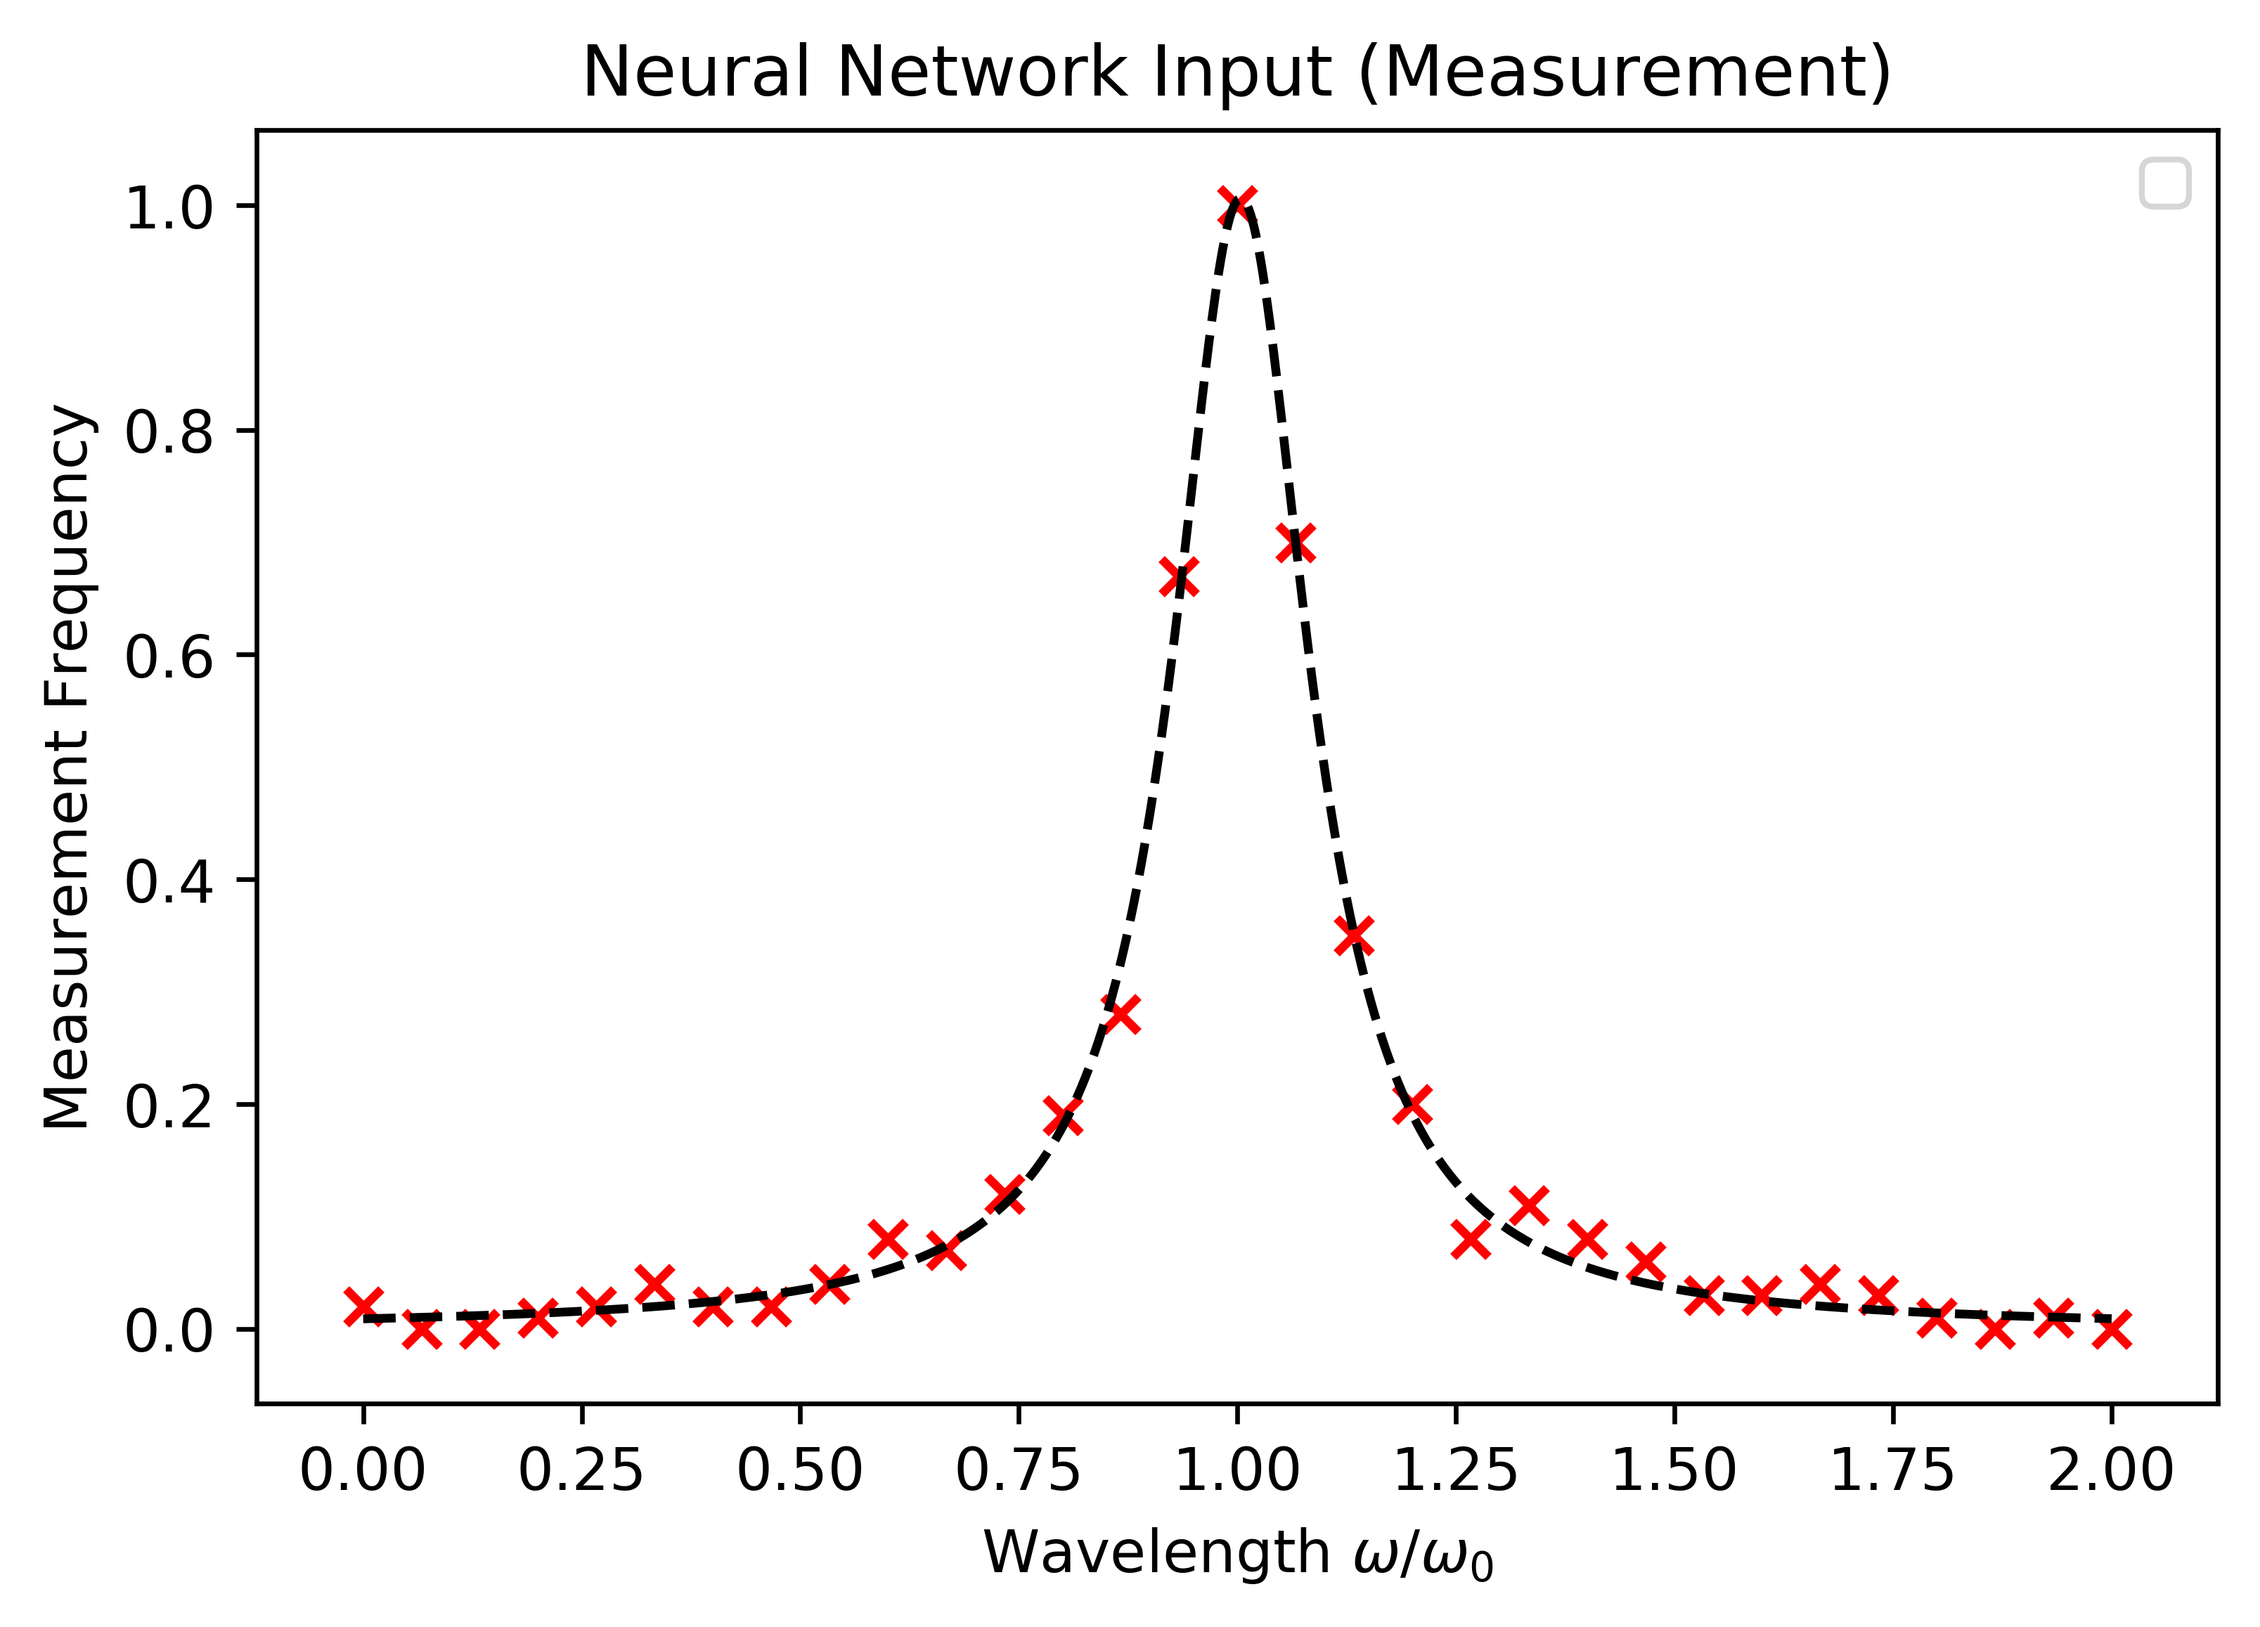
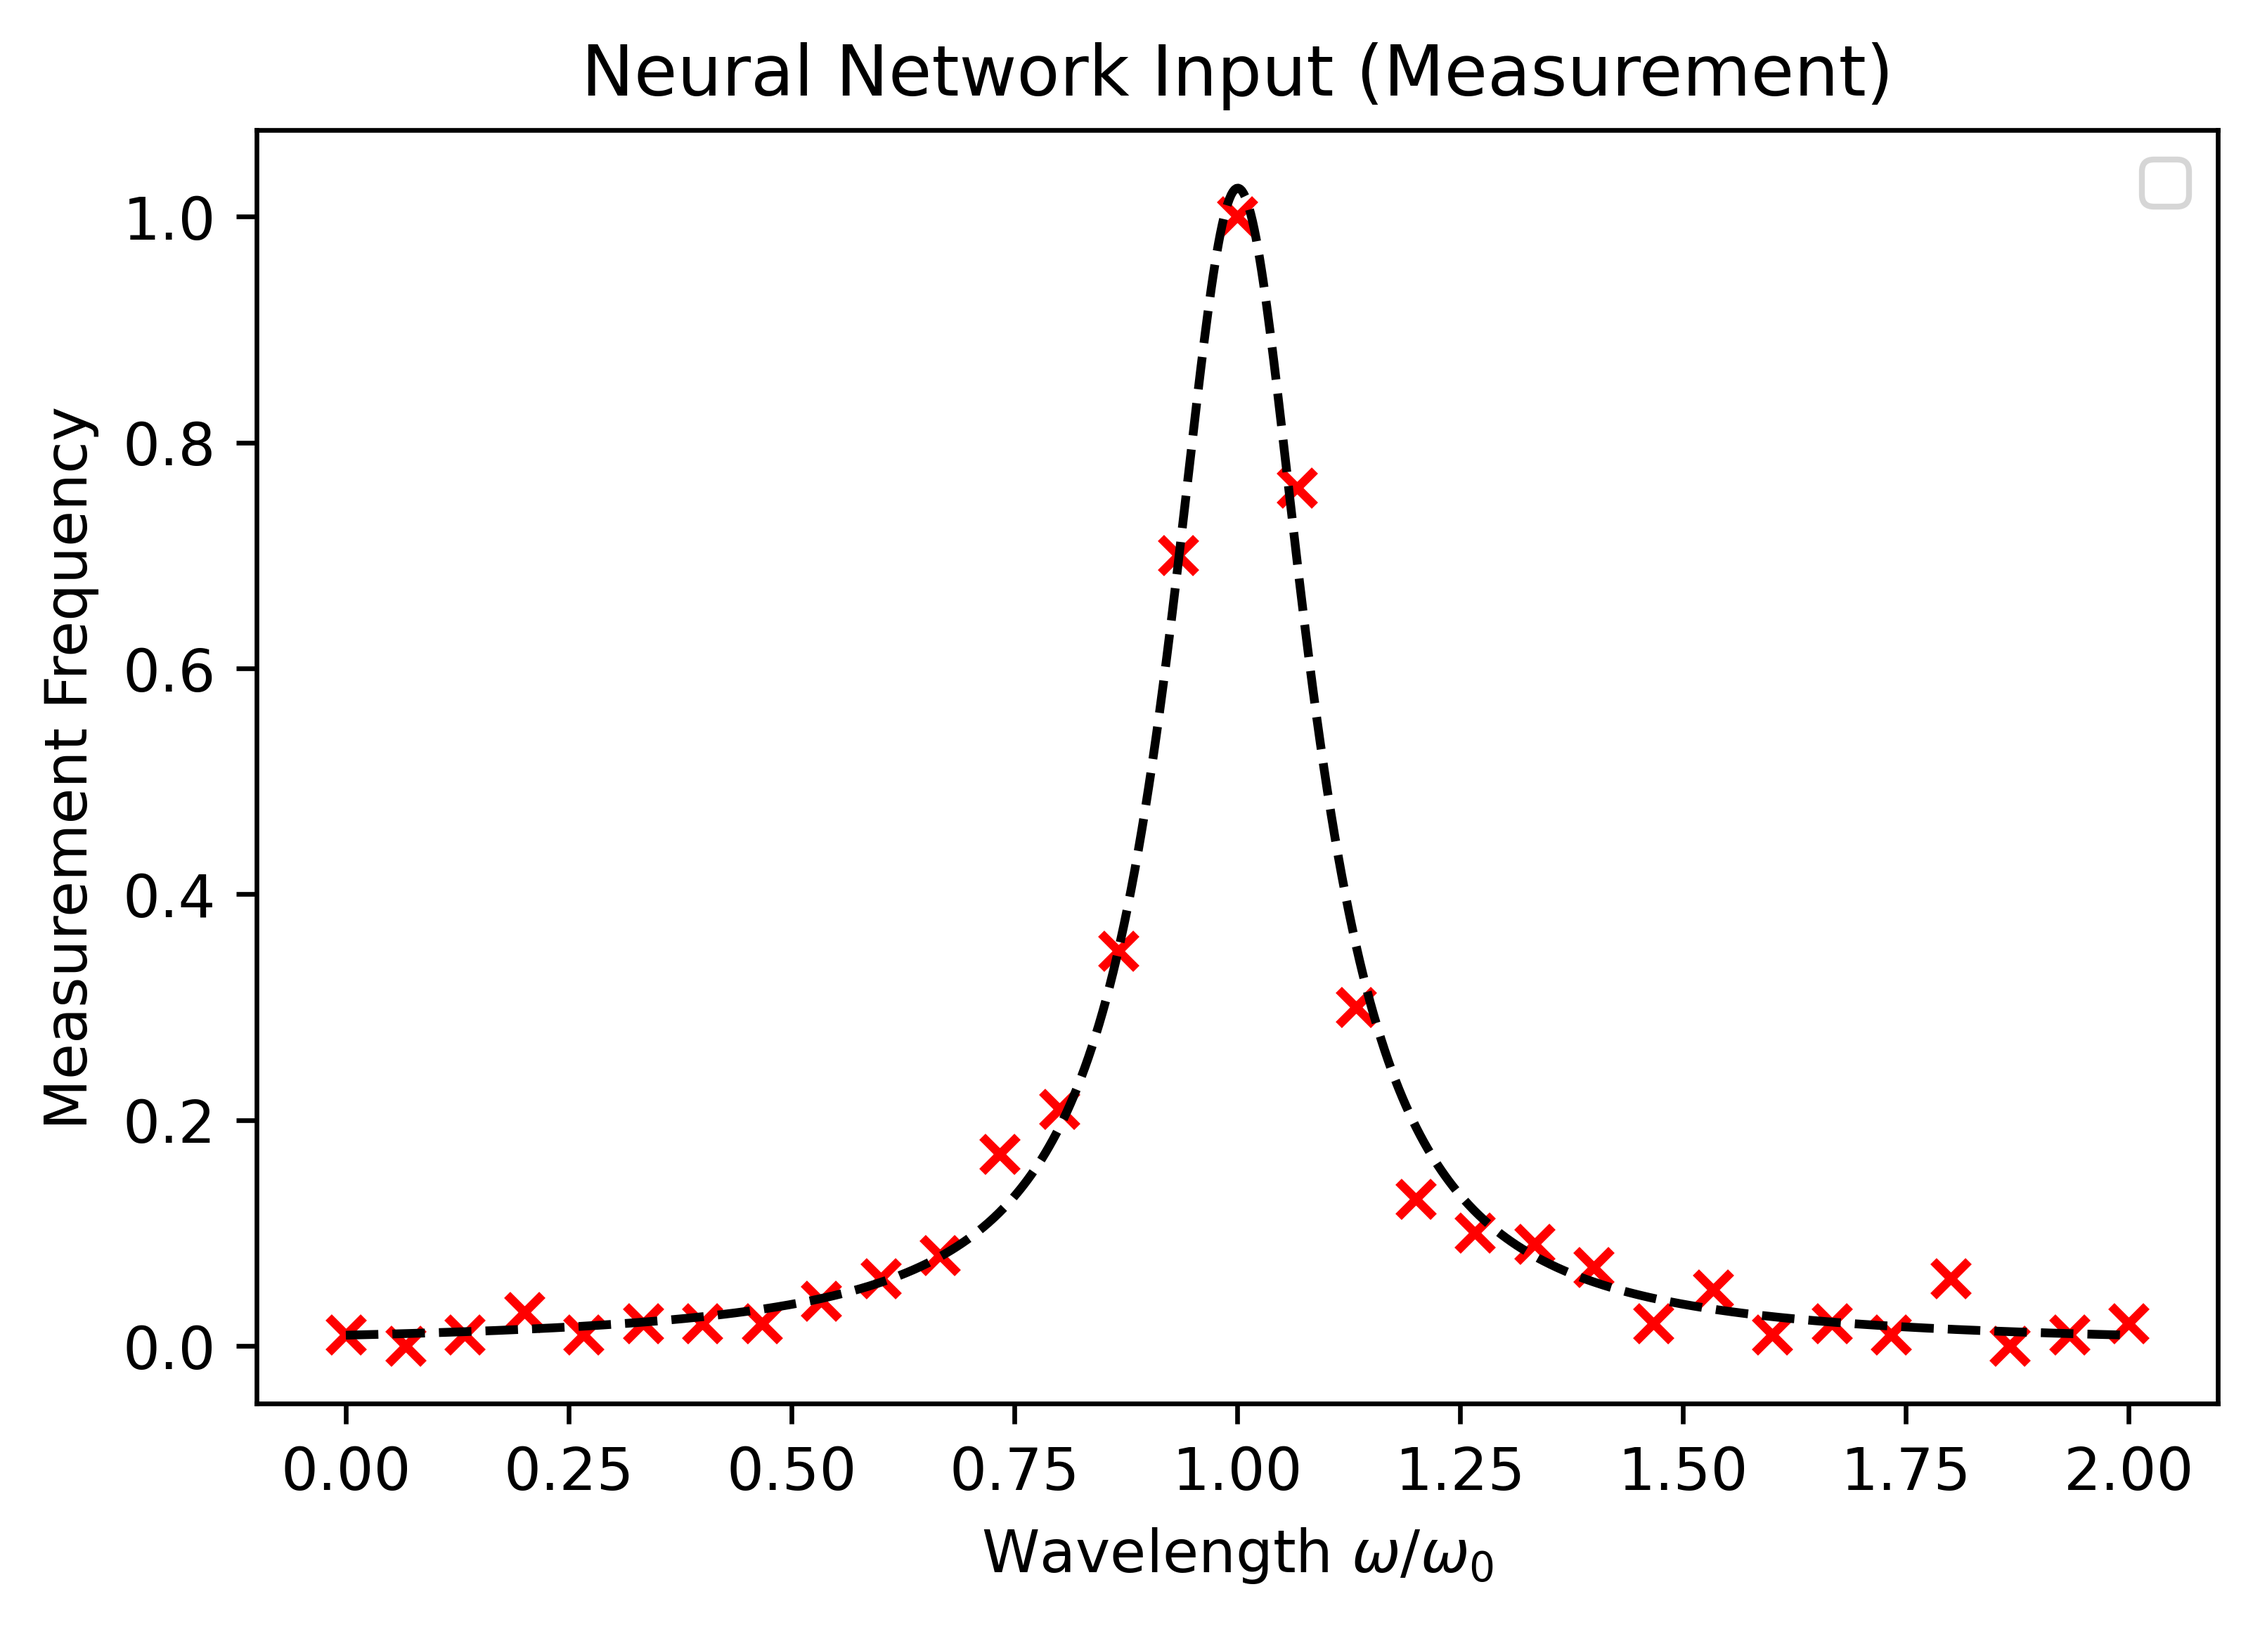
1822 17/3/22 first attempt

diff --git a/system.py b/system.py
@@ -65,42 +65,42 @@ class System:
 #
 #        return alpha, beta
 #
-#    def excitation_probability(self, omega):
-#        '''
-#        Calculates the maximum probability of changing the state of the system
-#        for a given perturbation frequency omega
-#        '''
-#        # Define resonance factor as fn/fd
-#        fn = np.sqrt(self.__omega1**2)
-#        fd = np.sqrt((omega - self.__omega0)**2 + self.__omega1**2)
-#        # excitation probability is square of resonance factor
-#        return (fn/fd) ** 2
-#
-#    def omega_distribution(self):
-#        '''
-#        Calculates the values of the maximum excitation energy for a set of
-#        perturbation frequencies and plots the resonance curve
-#        '''
-#        # Number of stds on either side of the mean
-#        dev = 10
-#        # Set distribution parameters
-#        mu, sigma = self.__omega0, self.__omega1
-#        # Get array of omega values
-#        omega_array = np.arange(mu - dev * sigma, mu + dev * sigma, sigma/1000)
-#        # Get values of the max excitation probability
-#        excite_p = list()
-#        for omega in omega_array:
-#            P_omega = self.excitation_probability(omega)
-#            excite_p.append(P_omega)
-#        # Plot resonance curve
-#        plt.plot(omega_array, excite_p,color='black')
-#        plt.title("Resonance Curve")
-#        # Axis Labels
-#        plt.xlabel(r"Perturbation Frequency $\omega$ / $s^{-1}$")
-#        plt.ylabel(r"Maximum Excitation Probability $P_{max}$")
-#        plt.grid()
-#        plt.savefig('Figures/Res_Curve.png', dpi=600, bbox_inches='tight')
-#        plt.show()
+    def excitation_probability(self, omega):
+        '''
+        Calculates the maximum probability of changing the state of the system
+        for a given perturbation frequency omega
+        '''
+        # Define resonance factor as fn/fd
+        fn = np.sqrt(self.__omega1**2)
+        fd = np.sqrt((omega - self.__omega0)**2 + self.__omega1**2)
+        # excitation probability is square of resonance factor
+        return (fn/fd) ** 2
+
+    def omega_distribution(self):
+        '''
+        Calculates the values of the maximum excitation energy for a set of
+        perturbation frequencies and plots the resonance curve
+        '''
+        # Number of stds on either side of the mean
+        dev = 10
+        # Set distribution parameters
+        mu, sigma = self.__omega0, self.__omega1
+        # Get array of omega values
+        omega_array = np.arange(mu - dev * sigma, mu + dev * sigma, sigma/1000)
+        # Get values of the max excitation probability
+        excite_p = list()
+        for omega in omega_array:
+            P_omega = self.excitation_probability(omega)
+            excite_p.append(P_omega)
+        # Plot resonance curve
+        plt.plot(omega_array, excite_p,color='black')
+        plt.title("Resonance Curve")
+        # Axis Labels
+        plt.xlabel(r"Perturbation Frequency $\omega$ / $s^{-1}$")
+        plt.ylabel(r"Maximum Excitation Probability $P_{max}$")
+        plt.grid()
+        plt.savefig('Figures/Res_Curve.png', dpi=600, bbox_inches='tight')
+        plt.show()
 
     def excitation_prob_2(self, omega):
         '''

diff --git a/experiment.py b/experiment.py
@@ -4,6 +4,7 @@ import matplotlib.pyplot as plt
 from function import lorentzian
 from scipy.optimize import curve_fit
 import numpy as np
+from stats import gaussian
 
 class Experiment:
 
@@ -34,6 +35,7 @@ class Experiment:
         Returns array of change of state data for frequencies theta_j
         """
         self.__data = list()
+        
         # loop through frequencies
         for w in self.__theta_j:
             count = 0
@@ -51,7 +53,10 @@ class Experiment:
         fit, cov = curve_fit(lorentzian, self.__theta_j, self.__data)
         self.__mean = fit[1]
         self.__std = np.sqrt(cov[1][1])
+        
         x = np.linspace(self.__theta_j[0], self.__theta_j[-1], 1000)
+        print(cov, fit)
+        #plt.plot(x, gaussian(x, 1, fit[1], self.__std))
         plt.plot(x, lorentzian(x, *fit), color='black', linestyle='dashed')
         plt.scatter(self.__theta_j, self.__data, color='red', marker='x')
         plt.title("Neural Network Input (Measurement)")

diff --git a/stats.py b/stats.py
@@ -35,6 +35,9 @@ def lorentzian(x, a, x_0, gamma):
 
     return (a * (1/np.pi) * (0.5*gamma))/((x-x_0)**2 + (0.5*gamma)**2)
 
+def gaussian(x, a, x_0, sigma):
+    return a * np.exp(-(x-x_0)**2/(2*sigma**2))
+
 
 
 #%%

diff --git a/main.py b/main.py
@@ -9,6 +9,7 @@ Omega = 10
 
 M = 100
 mu = 1
+
 std = 0.1
 devs = 10
 J = 31
